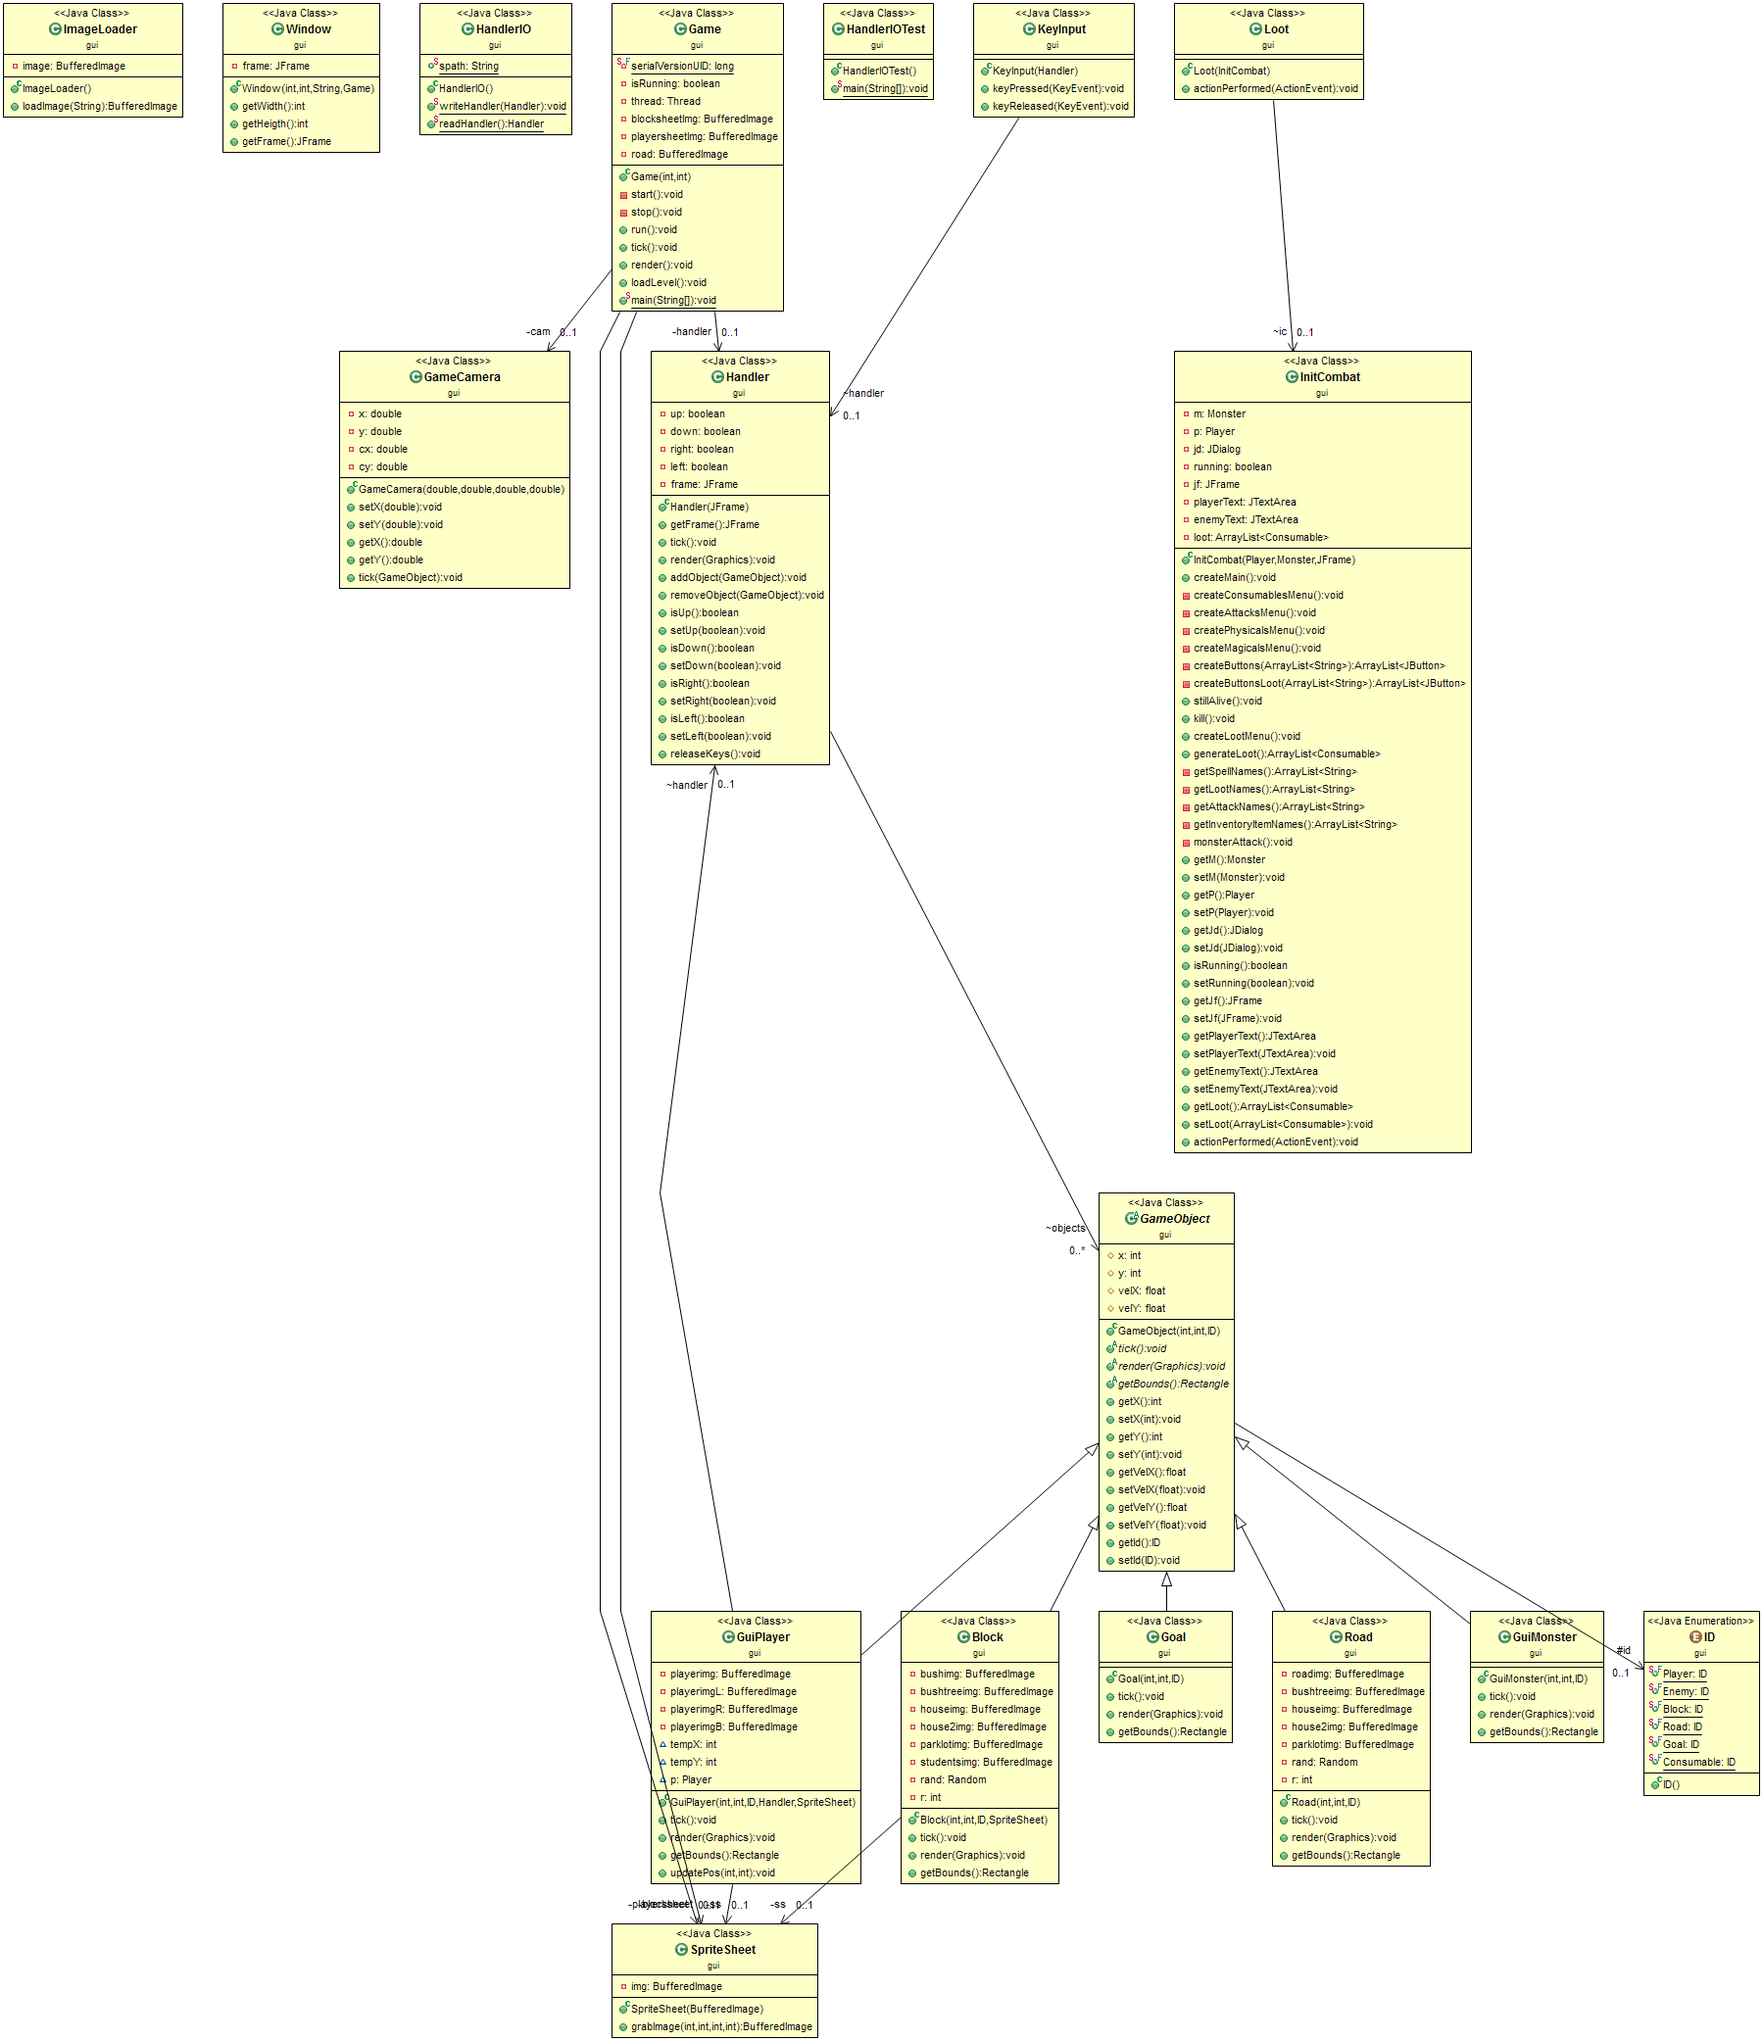
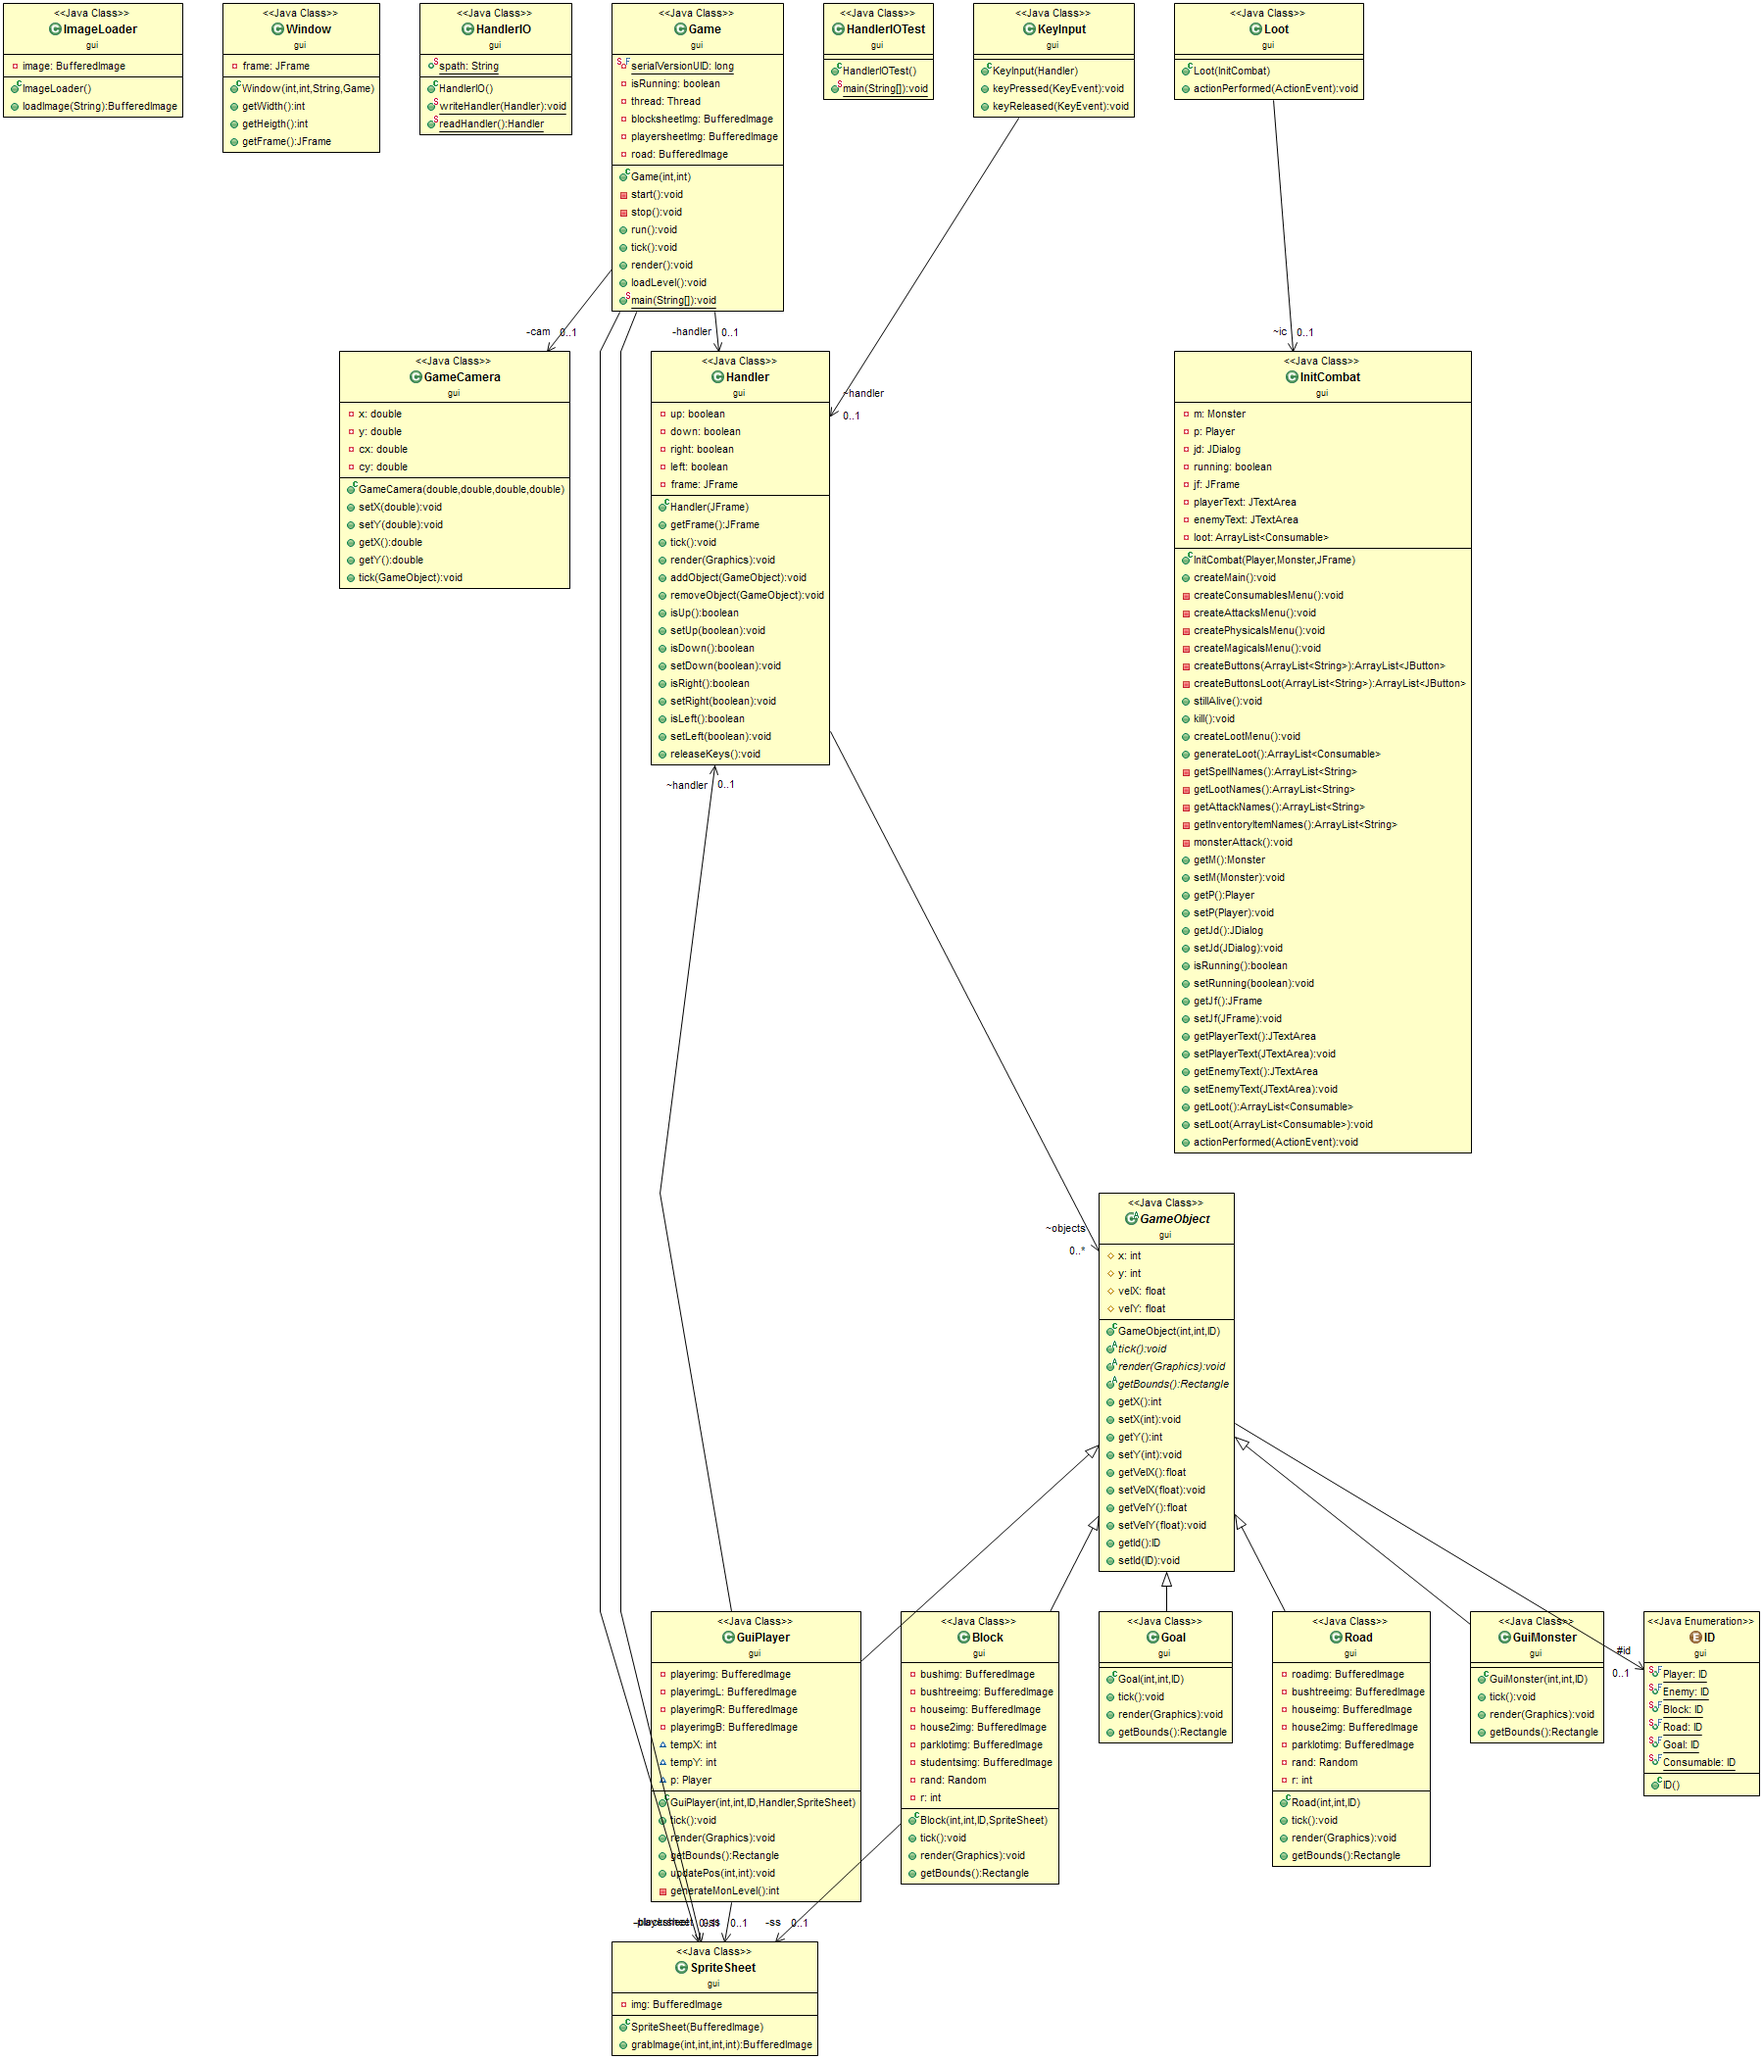
Changed the monster level generating code, now it varies by playerlevel

diff --git a/src/gui/GuiPlayer.java b/src/gui/GuiPlayer.java
@@ -39,6 +39,8 @@ public class GuiPlayer extends GameObject {
 		playerimgB = ss.grabImage(2, 1, 16, 16);
 
 		p = new Player(25, "Kaitsu", 10, 10, 20);
+		this.p.addExp(10000);
+		this.p.CheckLevelUp();
 		this.p.addItem(new Consumable("Testi", 1, 1, 1));
 		AttackIDList aid = new AttackIDList();
 		SpellIDList sid = new SpellIDList();
@@ -126,7 +128,7 @@ public class GuiPlayer extends GameObject {
 			}
 			if (newPos.intersects(handler.objects.get(i).getBounds()) && handler.objects.get(i).getClass() == GuiMonster.class) {
 				MonsterGenerator mg = new MonsterGenerator();
-				InitCombat combat = new InitCombat(this.p, mg.getMonster(r.nextInt(mg.getMonsterListSize()), r.nextInt(4) + this.p.getLevel()), this.handler.getFrame());
+				InitCombat combat = new InitCombat(this.p, mg.getMonster(r.nextInt(mg.getMonsterListSize()), generateMonLevel()), this.handler.getFrame());
 				combat.createMain();
 				while (combat.isRunning()) {
 					try {
@@ -141,6 +143,15 @@ public class GuiPlayer extends GameObject {
 		}
 		y = tempY;
 		x = tempX;
+	}
+	//quick bit of code that generates monster level by using
+	//pseudo-random numbers. uses math to generate level that varies
+	//0.9*playerlevel - 1.1*playerlevel
+	private int generateMonLevel() {
+		Random r = new Random();
+		int delta = (int) Math.floor(this.p.getLevel()/10);
+		int lvl = this.p.getLevel() + (r.nextInt(delta+1)-delta);
+		return lvl;
 	}
 	
 }
